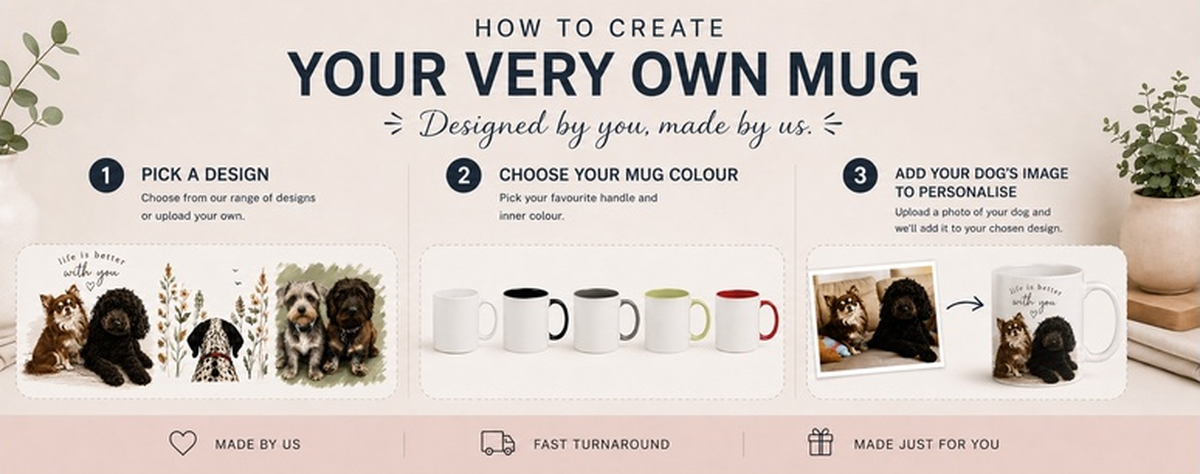
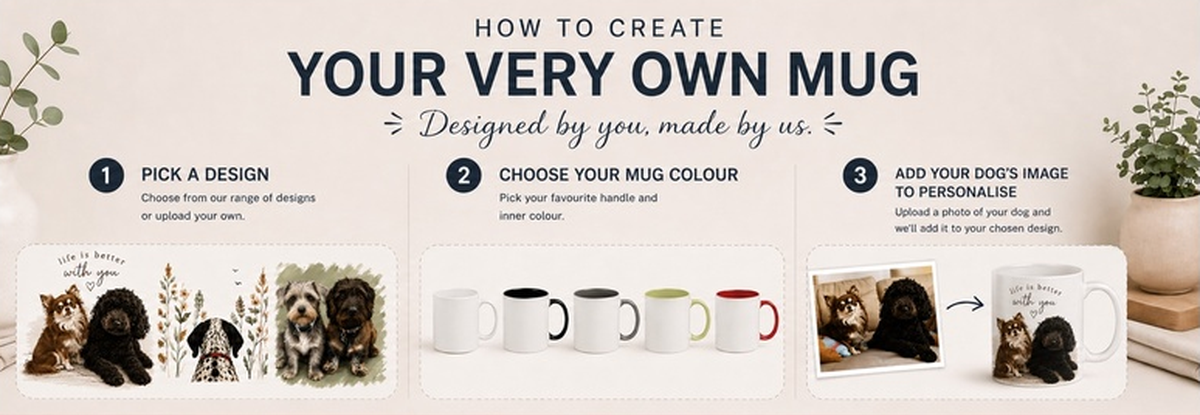
Add files via upload

diff --git a/mugs-pet.html b/mugs-pet.html
@@ -313,8 +313,20 @@ button { font-family: inherit; cursor: pointer; border: none; background: none; 
 .footer-links a { font-size: 12px; color: var(--text-muted); }
 
 @media (max-width: 900px) {
-  .announcement-bar { flex-direction: column; gap: 10px; align-items: center; }
-  .main-header { padding: 15px 20px; }
+  .announcement-bar {
+    flex-direction: row;
+    flex-wrap: nowrap;
+    justify-content: space-around;
+    align-items: center;
+    padding: 6px 10px;
+    font-size: 9px;
+    letter-spacing: 0.5px;
+    gap: 4px;
+  }
+  .announcement-item { gap: 5px; }
+  .announcement-item i { font-size: 11px; }
+  .announcement-text span { display: none; } /* hide sub-lines on mobile */
+  .main-header { padding: 12px 16px; }
   .nav-links { display: none; }
   .mobile-toggle { display: block; }
   .product-grid { grid-template-columns: repeat(2, 1fr); gap: 16px; }
@@ -323,24 +335,29 @@ button { font-family: inherit; cursor: pointer; border: none; background: none; 
 }
 @media (max-width: 520px) {
   .product-grid { grid-template-columns: 1fr; }
-  .logo img { height: 60px; }
+  .logo img { height: 56px; }
+  .announcement-bar { padding: 5px 6px; font-size: 8px; }
+  .announcement-item i { font-size: 10px; }
 }
 
 .how-to-banner {
   width: 100%;
-  max-width: 100%;
+  max-width: none;
   margin: 0 0 36px;
+  padding: 0;
   border-radius: 0;
   overflow: hidden;
   line-height: 0;
+  box-sizing: border-box;
 }
 .how-to-banner img {
-  width: 100%;
-  max-width: 100%;
-  height: auto;
-  display: block;
-  vertical-align: top;
-  object-fit: cover;
+  width: 100% !important;
+  max-width: 100% !important;
+  height: auto !important;
+  display: block !important;
+  margin: 0;
+  padding: 0;
+  object-fit: fill;
 }
 /* Desktop: show only desktop banner */
 .how-to-banner .how-to-desktop { display: block !important; }
@@ -350,6 +367,51 @@ button { font-family: inherit; cursor: pointer; border: none; background: none; 
   .how-to-banner .how-to-desktop { display: none !important; }
   .how-to-banner .how-to-mobile { display: block !important; }
   .how-to-banner { margin-bottom: 28px; border-radius: 8px; }
+}
+
+
+/* Back to top (mobile-focused, visible on all small screens) */
+.back-to-top {
+  position: fixed;
+  bottom: 22px;
+  right: 18px;
+  width: 44px;
+  height: 44px;
+  border-radius: 50%;
+  background: #111;
+  color: #fff;
+  display: none;
+  align-items: center;
+  justify-content: center;
+  z-index: 9999;
+  box-shadow: 0 4px 14px rgba(0,0,0,0.25);
+  font-size: 16px;
+  border: none;
+  cursor: pointer;
+  opacity: 0;
+  transform: translateY(8px);
+  transition: opacity 0.25s, transform 0.25s;
+}
+.back-to-top.show {
+  display: flex;
+  opacity: 1;
+  transform: translateY(0);
+}
+@media (min-width: 901px) {
+  .back-to-top { bottom: 28px; right: 28px; }
+}
+
+/* Fly-to-cart animation */
+.fly-item {
+  position: fixed;
+  z-index: 10000;
+  width: 48px;
+  height: 48px;
+  border-radius: 8px;
+  object-fit: cover;
+  pointer-events: none;
+  box-shadow: 0 4px 12px rgba(0,0,0,0.2);
+  transition: transform 0.7s cubic-bezier(0.4, 0, 0.2, 1), opacity 0.7s;
 }
 
 </style>
@@ -485,6 +547,7 @@ button { font-family: inherit; cursor: pointer; border: none; background: none; 
 </div>
 
 <div class="toast" id="toast"></div>
+<button class="back-to-top" id="backToTop" aria-label="Back to top"><i class="fa-solid fa-arrow-up"></i></button>
 
 <footer class="site-footer">
   <div class="footer-content">
@@ -518,11 +581,35 @@ function showToast(msg) {
   t.classList.add('show');
   setTimeout(() => t.classList.remove('show'), 2200);
 }
-function addToCart(product) {
+function addToCart(product, fromEl) {
   const cart = getCart();
   cart.push(product);
   saveCart(cart);
   showToast('Added to basket');
+  flyToCart(fromEl, product.image);
+}
+
+function flyToCart(fromEl, imgSrc) {
+  const cartIcon = document.querySelector('.cart-icon') || document.getElementById('cartBadge');
+  if (!cartIcon) return;
+  const start = fromEl
+    ? fromEl.getBoundingClientRect()
+    : (document.getElementById('addToBasketBtn') || document.body).getBoundingClientRect();
+  const end = cartIcon.getBoundingClientRect();
+  const flyer = document.createElement('img');
+  flyer.className = 'fly-item';
+  flyer.src = imgSrc || '';
+  flyer.onerror = function() { this.style.background = '#ddd'; this.removeAttribute('src'); };
+  flyer.style.left = (start.left + start.width / 2 - 24) + 'px';
+  flyer.style.top = (start.top + start.height / 2 - 24) + 'px';
+  document.body.appendChild(flyer);
+  // force reflow
+  flyer.offsetHeight;
+  const dx = end.left + end.width / 2 - 24 - (start.left + start.width / 2 - 24);
+  const dy = end.top + end.height / 2 - 24 - (start.top + start.height / 2 - 24);
+  flyer.style.transform = 'translate(' + dx + 'px,' + dy + 'px) scale(0.3)';
+  flyer.style.opacity = '0.4';
+  setTimeout(function() { flyer.remove(); }, 750);
 }
 
 const products = [
@@ -737,8 +824,9 @@ document.getElementById('fileInput').onchange = e => {
   }
 };
 
-document.getElementById('addToBasketBtn').onclick = () => {
+document.getElementById('addToBasketBtn').onclick = function() {
   if (!currentProduct) return;
+  const btn = this;
   addToCart({
     id: currentProduct.id,
     title: currentProduct.title,
@@ -750,13 +838,23 @@ document.getElementById('addToBasketBtn').onclick = () => {
     image: currentProduct.imgA,
     uploadUrl: uploadedUrl,
     sku: currentProduct.id
-  });
+  }, btn);
   document.getElementById('productModal').classList.remove('open');
 };
 
 document.getElementById('menu-toggle').addEventListener('click', () => {
   document.getElementById('mobileNav').classList.toggle('open');
 });
+// Back to top
+const backBtn = document.getElementById('backToTop');
+window.addEventListener('scroll', function() {
+  if (window.scrollY > 320) backBtn.classList.add('show');
+  else backBtn.classList.remove('show');
+});
+backBtn.addEventListener('click', function() {
+  window.scrollTo({ top: 0, behavior: 'smooth' });
+});
+
 updateCartBadge();
 </script>
 </body>
